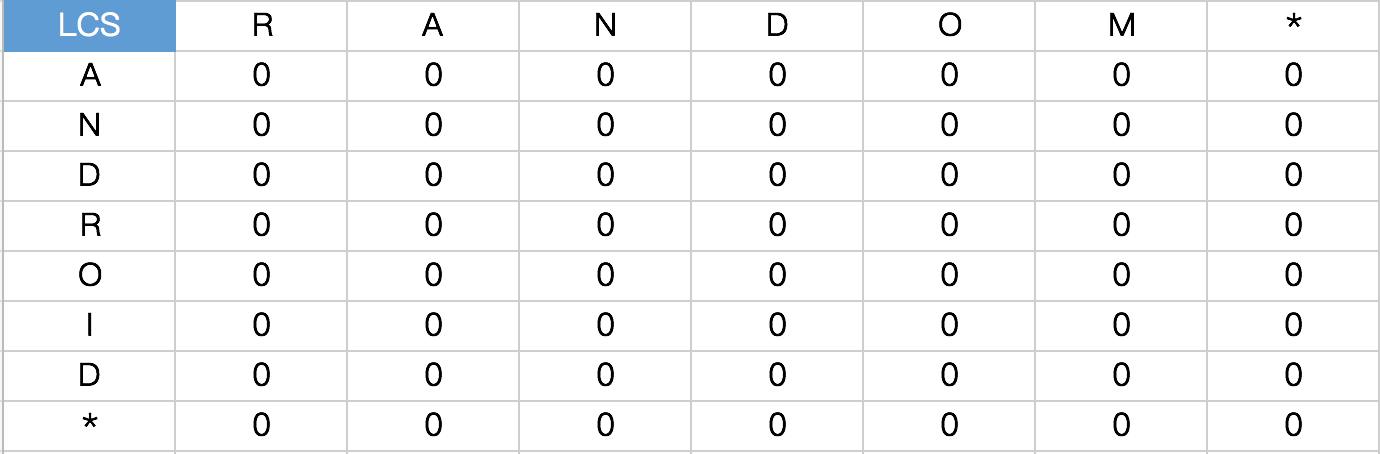
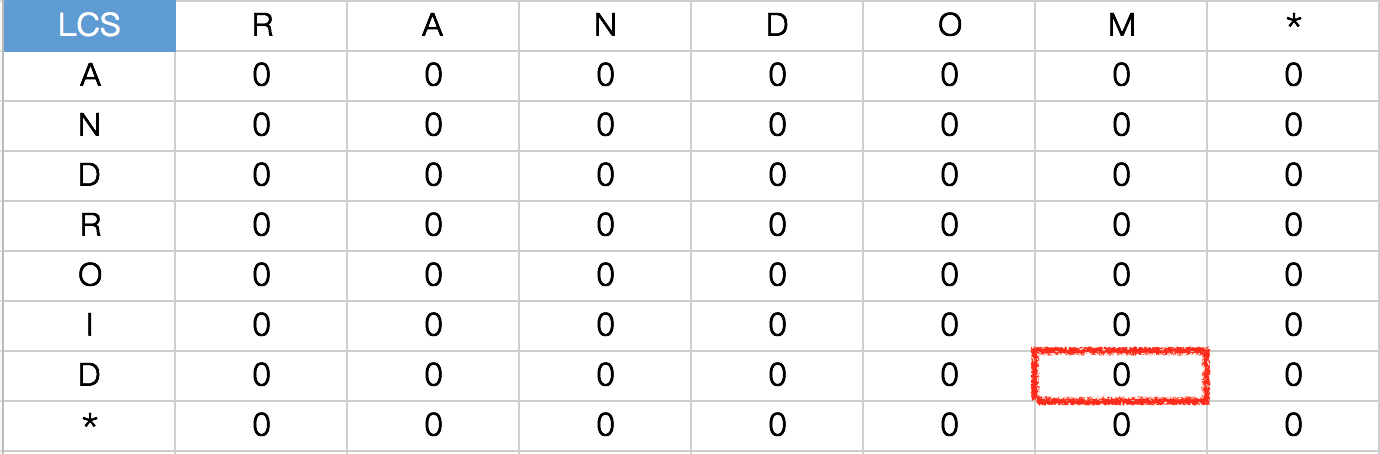
修改 README 和图示

Changed region(s): [[0.7478, 0.7401, 0.9036, 0.8943]]

diff --git a/LCS/README.md b/LCS/README.md
@@ -1,11 +1,12 @@
 ### LCS(Longest Common Subsequence)
 #### 定义
 + LCS即最长公共子序列（**不要求连续**），就是当要找出两个字符串中的最长公共子序列时就会用到LCS算法，也称动态规划算法
-+ 例如：`String a = "android" String b = "random"`
++ 例如：`String a = "android"; String b = "random"`
     + 当我们看到这两个字符串的时候，很容易看出a和b的最长公共子序列即`ando`可是我们怎么用程序给它表现出来呢
     + 首先看看下面的公式，其中**dp**为二维数组，**i**表示行，**j**表示列，**A**表示主串，**B**表示模式串
     
         ```java
+        /* i 和 j 都表示下标 */
         //方式一：从前往后  i和j=0
                   0 (如果i=0且j=0)   ①
         dp[i][j]= dp[i-1][j-1] + 1 (如果i和j>0,且A[i]=B[j])  ②
@@ -18,7 +19,7 @@
         ```
         先来初始化一个二位数组,在最后加了一行一列是为了下面查找公共子串如下:
         ![](./images/image_1.png)
-        然后我们在根据上面的公式**从后往前（方式二）**填空，即从`dp[6][5]`(第6行第5列开始)，如下:
+        然后我们在根据上面的公式**从后往前(方式二)**填空，即从`dp[6][5]`(第7行第6列开始，从上图中红框位置开始)，如下:
         
         填空之前先看看这张图吧（这张图的顺序是从前往后的）
         ![](./images/image_3.png)
@@ -155,3 +156,4 @@
     + https://my.oschina.net/leejun2005/blog/117167
     
         
+
